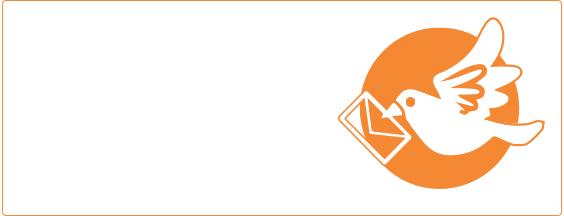
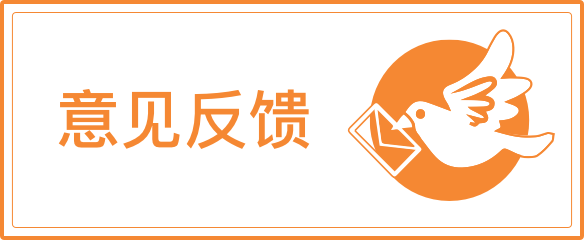
添加正文、添加图注

Changed region(s): [[0.0, 0.0, 1.0, 1.0], [0.0904, 0.3611, 0.5426, 0.6389], [0.6631, 0.2222, 0.6933, 0.2778]]

diff --git a/css/main.css b/css/main.css
@@ -446,15 +446,12 @@ input:focus {
     margin-left: 16px;
     width: 292px; }
     .content .right .feedback {
-      border: 2px solid #F58833;
+      background: url("../img/feedback.png") no-repeat;
+      background-size: 100% 100%;
       width: 100%;
-      height: 120px;
-      padding: 6px;
-      border-radius: 2px;
-      box-sizing: border-box; }
-      .content .right .feedback .imgbox {
-        background: url("../img/feedback.png") no-repeat;
-        background-size: 100% 100%;
+      height: 120px; }
+      .content .right .feedback a {
+        display: inline-block;
         width: 100%;
         height: 100%; }
     .content .right .catalog-article {
@@ -670,7 +667,6 @@ input:focus {
         border-radius: 2px;
         z-index: -9; }
   .dragArticle .journey-content {
-    width: 100%;
     margin-left: 195px;
     padding: 40px;
     position: relative;
@@ -689,27 +685,39 @@ input:focus {
       border-radius: 2px;
       z-index: -9;
       box-sizing: border-box; }
-    .dragArticle .journey-content .dragArticle-header .notice-big {
-      color: #666;
-      font-size: 28px; }
-    .dragArticle .journey-content .dragArticle-header .dragArticle-close {
-      width: 100px;
-      height: 40px;
-      border-radius: 2px;
-      line-height: 40px;
-      border: 1px solid #1A8CED;
-      color: #1A8CED;
-      display: inline-block;
-      text-align: center; }
-    .dragArticle .journey-content .dragArticle-header .dragArticle-save {
-      width: 100px;
-      height: 40px;
-      border-radius: 2px;
-      line-height: 40px;
-      background: #1A8CED;
-      color: #fff;
-      display: inline-block;
-      text-align: center; }
+    .dragArticle .journey-content .dragArticle-header {
+      position: relative; }
+      .dragArticle .journey-content .dragArticle-header .notice-small {
+        width: 230px;
+        margin-left: 50px; }
+      .dragArticle .journey-content .dragArticle-header .notice-big {
+        color: #666;
+        font-size: 28px; }
+      .dragArticle .journey-content .dragArticle-header .dragArticle-close {
+        width: 100px;
+        height: 40px;
+        border-radius: 2px;
+        line-height: 40px;
+        border: 1px solid #1A8CED;
+        color: #1A8CED;
+        display: inline-block;
+        text-align: center;
+        position: absolute;
+        top: 0;
+        right: 120px;
+        box-sizing: border-box; }
+      .dragArticle .journey-content .dragArticle-header .dragArticle-save {
+        width: 100px;
+        height: 40px;
+        border-radius: 2px;
+        line-height: 40px;
+        background: #1A8CED;
+        color: #fff;
+        display: inline-block;
+        text-align: center;
+        position: absolute;
+        top: 0;
+        right: 0; }
     .dragArticle .journey-content ul {
       overflow-y: scroll;
       height: 100%; }
@@ -738,9 +746,9 @@ input:focus {
         margin-right: 20px;
         margin-bottom: 20px;
         position: relative; }
-        .dragArticle .journey-content ul .dragArticle-item > img {
-          width: 100%;
-          height: 100%; }
+        .dragArticle .journey-content ul .dragArticle-item .img {
+          width: 126px;
+          height: 126px; }
         .dragArticle .journey-content ul .dragArticle-item .update {
           height: 41px;
           position: absolute;
@@ -751,16 +759,20 @@ input:focus {
           width: 100%;
           line-height: 41px;
           text-align: center; }
-          .dragArticle .journey-content ul .dragArticle-item .update:after {
-            content: '';
+          .dragArticle .journey-content ul .dragArticle-item .update:hover {
+            cursor: pointer; }
+          .dragArticle .journey-content ul .dragArticle-item .update span {
             width: 100%;
             height: 100%;
-            background: #1B1B1B;
-            opacity: 0.7;
             position: absolute;
             top: 0;
             left: 0;
-            z-index: -9; }
+            color: #fff;
+            z-index: 9; }
+          .dragArticle .journey-content ul .dragArticle-item .update span.bg-span {
+            background: #000;
+            opacity: 0.7;
+            z-index: 0; }
       .dragArticle .journey-content ul .del-icon {
         position: absolute;
         top: 0;
@@ -769,9 +781,11 @@ input:focus {
         height: 23px; }
         .dragArticle .journey-content ul .del-icon img {
           width: 13px;
-          margin-top: 4px; }
-        .dragArticle .journey-content ul .del-icon:after {
-          content: '';
+          position: absolute;
+          top: 5px;
+          left: 5px;
+          z-index: 9; }
+        .dragArticle .journey-content ul .del-icon span {
           width: 100%;
           height: 100%;
           background: #1B1B1B;

diff --git a/css/main.scss b/css/main.scss
@@ -542,15 +542,12 @@ input:focus{
         margin-left:16px;
         width:292px;
         .feedback{
-            border:2px solid #F58833;
-            width:100%;
-            height:120px;
-            padding:6px;
-            border-radius: 2px;
-            box-sizing:border-box;
-            .imgbox{
-                background: url("../img/feedback.png") no-repeat;
-                background-size: 100% 100%;
+            background: url("../img/feedback.png") no-repeat;
+            background-size: 100% 100%;
+            width: 100%;
+            height: 120px;
+            a{
+                display: inline-block;
                 width: 100%;
                 height: 100%;
             }
@@ -802,7 +799,6 @@ input:focus{
 
     }
     .journey-content{
-        width:100%;
         margin-left:195px;
         padding:40px;
         position:relative;
@@ -823,6 +819,11 @@ input:focus{
             box-sizing:border-box;
         }
         .dragArticle-header{
+            position: relative;
+            .notice-small{
+                width: 230px;
+                margin-left: 50px;
+            }
             .notice-big{
                 color: #666;
                 font-size: 28px;
@@ -833,10 +834,14 @@ input:focus{
                 height: 40px;
                 border-radius: 2px;
                 line-height: 40px;
-                border: 1px solid $blue;
+                border: 1px solid #1A8CED;
                 color: $blue;
                 display: inline-block;
                 text-align: center;
+                position: absolute;
+                top: 0;
+                right: 120px;
+                box-sizing: border-box;
             }
             .dragArticle-save{
                 width: 100px;
@@ -847,6 +852,9 @@ input:focus{
                 color: #fff;
                 display: inline-block;
                 text-align: center;
+                position: absolute;
+                top: 0;
+                right: 0;
             }
         }
         ul{
@@ -881,9 +889,9 @@ input:focus{
                 margin-right:20px;
                 margin-bottom: 20px;
                 position: relative;
-                >img{
-                    width:100%;
-                    height:100%;
+                .img{
+                    width: 126px;
+                    height: 126px;
                 }
                 .update{
                     height: 41px;
@@ -895,16 +903,22 @@ input:focus{
                     width: 100%;
                     line-height: 41px;
                     text-align: center;
-                    &:after{
-                        content: '';
-                        width:100%;
-                        height:100%;
-                        background:#1B1B1B;
-                        opacity: 0.7;
+                    &:hover{
+                        cursor: pointer;
+                    }
+                    span{
+                        width: 100%;
+                        height: 100%;
                         position: absolute;
-                        top:0;
-                        left:0;
-                        z-index: -9;
+                        top: 0;
+                        left: 0;
+                        color: #fff;
+                        z-index: 9;
+                    }
+                    span.bg-span{
+                        background: #000;
+                        opacity: 0.7;
+                        z-index: 0;
                     }
                 }
             }
@@ -915,11 +929,13 @@ input:focus{
                 width:23px;
                 height:23px;
                 img{
-                    width:13px;
-                    margin-top:4px;
+                    width: 13px;
+                    position: absolute;
+                    top: 5px;
+                    left: 5px;
+                    z-index: 9;
                 }
-                &:after{
-                    content: '';
+                span{
                     width:100%;
                     height:100%;
                     background:#1B1B1B;

diff --git a/js/main.js b/js/main.js
@@ -149,11 +149,11 @@ var mainVue = new Vue({
             };
             if(typeof(pindex) == "undefined"){
 
-                this.yjData.paragraphInfo.paragraphList.push(journey);
+                this.yjData.paragraphInfo[0].paragraphList.push(journey);
 
             }else{
 
-                this.yjData.paragraphInfo.paragraphList.splice(pindex,0,journey);
+                this.yjData.paragraphInfo[0].paragraphList.splice(pindex,0,journey);
 
             }
         },
@@ -161,7 +161,7 @@ var mainVue = new Vue({
          * 删除行程
          */
         delJourney:function(pindex){
-            this.yjData.paragraphInfo.paragraphList.splice(pindex,1);
+            this.yjData.paragraphInfo[0].paragraphList.splice(pindex,1);
         },
         /**
          * 添加正文
@@ -175,7 +175,7 @@ var mainVue = new Vue({
                 width: "750",
                 height: "500"
             };
-            this.yjData.paragraphInfo.paragraphList[index].journeyContent.push(content);
+            this.yjData.paragraphInfo[0].paragraphList[index].journeyContent.push(content);
         },
         /**
          * 上传图片后的回掉
@@ -197,7 +197,7 @@ var mainVue = new Vue({
          */
         deleteItem:function(pindex,jindex){
 
-            this.yjData.paragraphInfo.paragraphList[pindex].journeyContent.splice(jindex,1);
+            this.yjData.paragraphInfo[0].paragraphList[pindex].journeyContent.splice(jindex,1);
         },
         /**
          * 添加标签
@@ -229,7 +229,7 @@ var mainVue = new Vue({
             if(r.data){
                 var index = r.data.index;
                 var tagdict = r.data.tagdict;
-                this.yjData.paragraphInfo.paragraphList[index].tagdict = tagdict;
+                this.yjData.paragraphInfo[0].paragraphList[index].tagdict = tagdict;
             }
 
         },
@@ -249,7 +249,7 @@ var mainVue = new Vue({
         yjpicmixtool:function(r){
             this.showYjpicmixtool = false;
             if(r.data) // 数据返回时 保存数据
-                this.yjData.paragraphInfo = r.data;
+                this.yjData.paragraphInfo[0] = r.data;
         },
         /**
          * 自动保存草稿

diff --git a/js/component/yjpicmixtool.js b/js/component/yjpicmixtool.js
@@ -29,13 +29,13 @@ Vue.component('yjpicmixtool-component', {
 		'			<ul class="clearfix gridly" v-show="tabSelected==pindex" v-for="(paragraph,pindex) in data.paragraphList" style="position: relative;">' +
 		'				<li v-for="(item,jindex) in paragraph.journeyContent" :id="\'\'+pindex+jindex" :mid="jindex" class="dragArticle-item fl">' +
 		'					<div class="brick small">' +
-		'						<img v-if="item.type==\'img\'" :src="item.imgurl" alt="">' +
-		'						<img v-if="item.type==\'text\'" src="" alt="">' +
+		'						<img class="img" v-if="item.type==\'img\'" :src="item.imgurl" alt="">' +
+		'						<img v-if="item.type==\'text\'" src="img/updateContent.png" alt="">' +
 		'						<a href="javascript:void(0);" @click="del(jindex,$event)" class="del-icon">' +
-		'							<img src="img/deleteIcon-white.png" alt="">' +
+		'							<img src="img/deleteIcon-white.png" alt=""><span></span>' +
 		'						</a>' +
-		'						<p v-if="item.type==\'text\'" @click="modifyContent" class="update">修改正文</p>' +
-		'						<p v-if="item.type==\'img\'" @click="modifyComment" class="update">添加图注</p>' +
+		'						<p v-if="item.type==\'text\'" @click="modifyContent" class="update"><span>修改正文</span><span class="bg-span"></span></p>' +
+		'						<p v-if="item.type==\'img\'" @click="modifyComment" class="update"><span>添加图注</span><span class="bg-span"></span></p>' +
 		'						<input type=input style="display:none" :value="JSON.stringify(item)" />' +
 		'					</div>' +
 		'				</li>' +
@@ -173,6 +173,7 @@ Vue.component('yjpicmixtool-component', {
 		 */
 		modifyComment: function() {
 			// todo:未作做
+            $(".dragArticle-add-caption").show();
 		},
 		/**
 		 * 上传图片

diff --git a/main.html b/main.html
@@ -193,7 +193,7 @@
             </div>
             <div class="right fl">
                 <div class="feedback">
-                    <div class="imgbox"></div>
+                    <a href="http://you.autohome.com.cn/feedback/tofeedback" target="_blank"></a>
                 </div>
                 <div class="catalog-article">
                     <yjcatalog-component v-bind:list='yjData.paragraphInfo[0].paragraphList'></yjcatalog-component>
@@ -250,8 +250,6 @@
 <!-- 弹层插件 -->
 <script type="text/javascript" src="libs/layer/layer.js"></script>
 
-<script type="text/javascript" src="libs/lodash.js"></script>
-
 <script type="text/javascript" src="js/config.js"></script>
 <script type="text/javascript" src="js/common.js"></script>
 <script type="text/javascript" src="js/popDialog.js"></script>
@@ -273,7 +271,7 @@
         <img src="img/popupClose.png" alt="" class="close">
     </div>
     <div class="content">
-        <textarea name="" id="" cols="30" rows="10"></textarea>
+        <textarea name="" id="" cols="30" rows="10" placeholder="分享你的旅行故事"></textarea>
         <span>23/2000</span>
     </div>
     <div class="foot">
